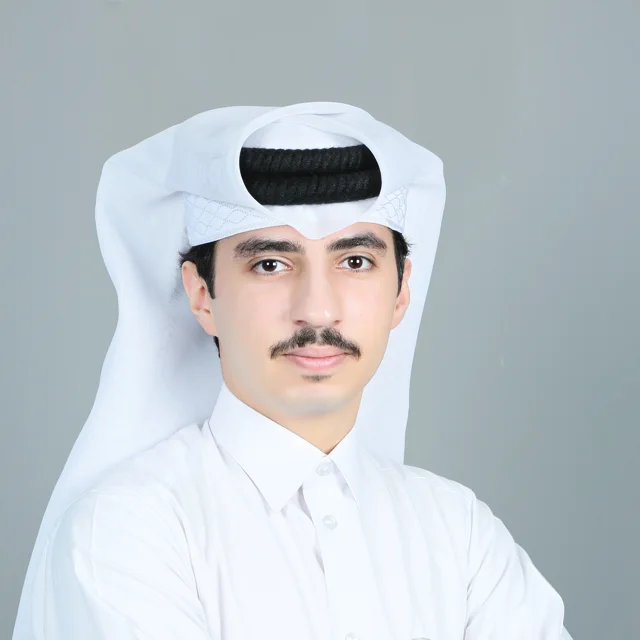
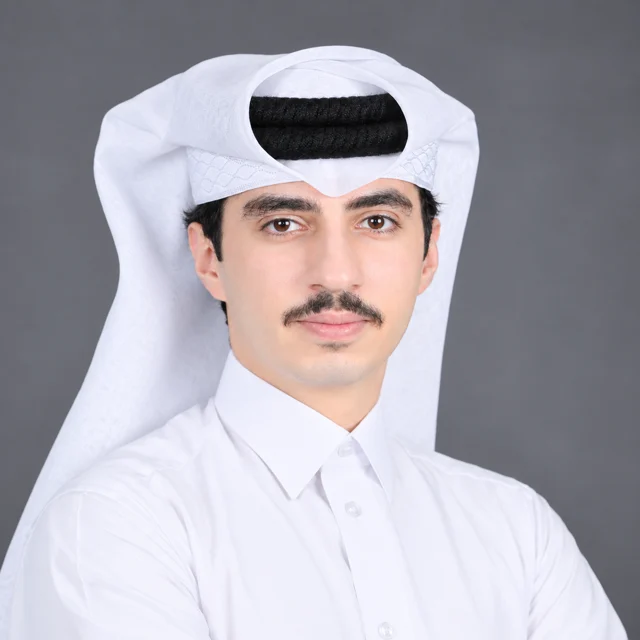
Replace Doha photo with animated portrait card and update profile photo
Claude-Session: https://claude.ai/code/session_015dGQPLbLoTpmzsKx9e5tYK

diff --git a/index.html b/index.html
@@ -177,12 +177,31 @@ h2.title{font-size:clamp(2rem,4.6vw,3rem);font-weight:700;letter-spacing:-.035em
 .btn svg{width:17px;height:17px}
 
 .hero-card{display:flex;flex-direction:column}
-.hero-photo{position:relative;flex:1;min-height:260px;overflow:hidden}
-.hero-photo img.city{position:absolute;inset:0;width:100%;height:100%;object-fit:cover;transform:scale(1.08);animation:kenburns 24s ease-in-out infinite alternate}
-@keyframes kenburns{to{transform:scale(1.22) translate(-3%,-2%)}}
-.hero-photo::after{content:"";position:absolute;inset:0;background:linear-gradient(180deg,rgba(7,8,13,0) 35%,rgba(7,8,13,.85) 100%)}
-.hero-id{position:relative;z-index:2;display:flex;align-items:center;gap:14px;padding:18px 20px;margin:-74px 16px 16px;border-radius:20px}
-.hero-id img{width:56px;height:56px;border-radius:50%;object-fit:cover;border:2px solid rgba(255,255,255,.4)}
+.hero-photo{position:relative;flex:1;min-height:300px;overflow:hidden;display:grid;place-items:center}
+.aurora{position:absolute;inset:-40%;
+  background:conic-gradient(from 0deg,#2f6bff,#a07bff,#ff6fa8,#ffb45a,#3fe0c5,#2f6bff);
+  filter:blur(60px);opacity:.55;animation:spin 18s linear infinite}
+.hero-photo::after{content:"";position:absolute;inset:0;pointer-events:none;
+  background:radial-gradient(circle at 50% 45%,transparent 30%,rgba(7,8,13,.55) 100%),linear-gradient(180deg,transparent 55%,rgba(7,8,13,.7))}
+@keyframes spin{to{transform:rotate(360deg)}}
+.orbit{position:absolute;left:50%;top:46%;border-radius:50%;border:1px solid rgba(255,255,255,.12);transform:translate(-50%,-50%);animation:spin linear infinite;z-index:1}
+.orbit i{position:absolute;top:-5px;left:50%;width:10px;height:10px;border-radius:50%;background:#fff;box-shadow:0 0 14px 3px rgba(255,255,255,.7)}
+.o1{width:210px;height:210px;animation-duration:12s}
+.o2{width:290px;height:290px;animation-duration:20s;animation-direction:reverse}
+.o2 i{background:var(--teal);box-shadow:0 0 14px 3px rgba(63,224,197,.8)}
+.o3{width:380px;height:380px;animation-duration:30s}
+.o3 i{background:var(--amber);box-shadow:0 0 14px 3px rgba(255,180,90,.8)}
+.float-glass{position:absolute;z-index:1;border-radius:22px;background:rgba(255,255,255,.08);border:1px solid rgba(255,255,255,.18);
+  backdrop-filter:blur(10px);-webkit-backdrop-filter:blur(10px);box-shadow:inset 0 1px 0 rgba(255,255,255,.3)}
+.fg1{width:70px;height:70px;left:10%;top:14%;animation:bob 7s ease-in-out infinite}
+.fg2{width:46px;height:46px;right:12%;top:22%;border-radius:50%;animation:bob 9s ease-in-out infinite reverse}
+.fg3{width:90px;height:56px;right:16%;bottom:24%;border-radius:18px;animation:bob 8s ease-in-out 1s infinite}
+@keyframes bob{0%,100%{transform:translateY(0) rotate(0)}50%{transform:translateY(-16px) rotate(8deg)}}
+.portrait{position:relative;z-index:2;width:150px;height:150px;margin-top:-30px;animation:bob 10s ease-in-out infinite}
+.portrait img{position:relative;width:100%;height:100%;border-radius:50%;object-fit:cover;border:3px solid rgba(7,8,13,.6);box-shadow:0 20px 50px -10px rgba(0,0,0,.7)}
+.portrait .ring{position:absolute;inset:-6px;border-radius:50%;
+  background:conic-gradient(from 0deg,#5aa2ff,#a07bff,#ff6fa8,#ffb45a,#3fe0c5,#5aa2ff);animation:spin 6s linear infinite}
+.hero-id{position:relative;z-index:3;display:flex;align-items:center;justify-content:space-between;gap:14px;padding:16px 20px;margin:-56px 16px 16px;border-radius:20px}
 .hero-id strong{display:block;font-size:1rem}
 .hero-id small{color:var(--muted);font-size:.82rem}
 .stats{display:grid;grid-template-columns:repeat(3,1fr);gap:10px;padding:0 16px 16px}
@@ -334,12 +353,22 @@ footer{text-align:center;color:var(--faint);font-size:.8rem;padding:30px 20px 40
     </div>
 
     <div class="hero-card glass reveal">
-      <div class="hero-photo">
-        <img class="city" src="assets/doha.webp" alt="Doha skyline at sunset">
+      <div class="hero-photo" aria-hidden="false">
+        <div class="aurora"></div>
+        <div class="orbit o1"><i></i></div>
+        <div class="orbit o2"><i></i></div>
+        <div class="orbit o3"><i></i></div>
+        <div class="float-glass fg1"></div>
+        <div class="float-glass fg2"></div>
+        <div class="float-glass fg3"></div>
+        <div class="portrait">
+          <div class="ring"></div>
+          <img src="assets/avatar.webp" alt="Ali Al Qahtani">
+        </div>
       </div>
       <div class="hero-id glass">
-        <img src="assets/avatar.webp" alt="Ali Al Qahtani">
         <div><strong>Ali Al Qahtani</strong><small>Systems &amp; Applications · MCIT</small></div>
+        <span class="status" style="margin:0;padding:5px 10px 5px 8px"><i></i>Doha</span>
       </div>
       <div class="stats">
         <div class="stat"><b data-count="2">0</b><span>Years at MCIT</span></div>
